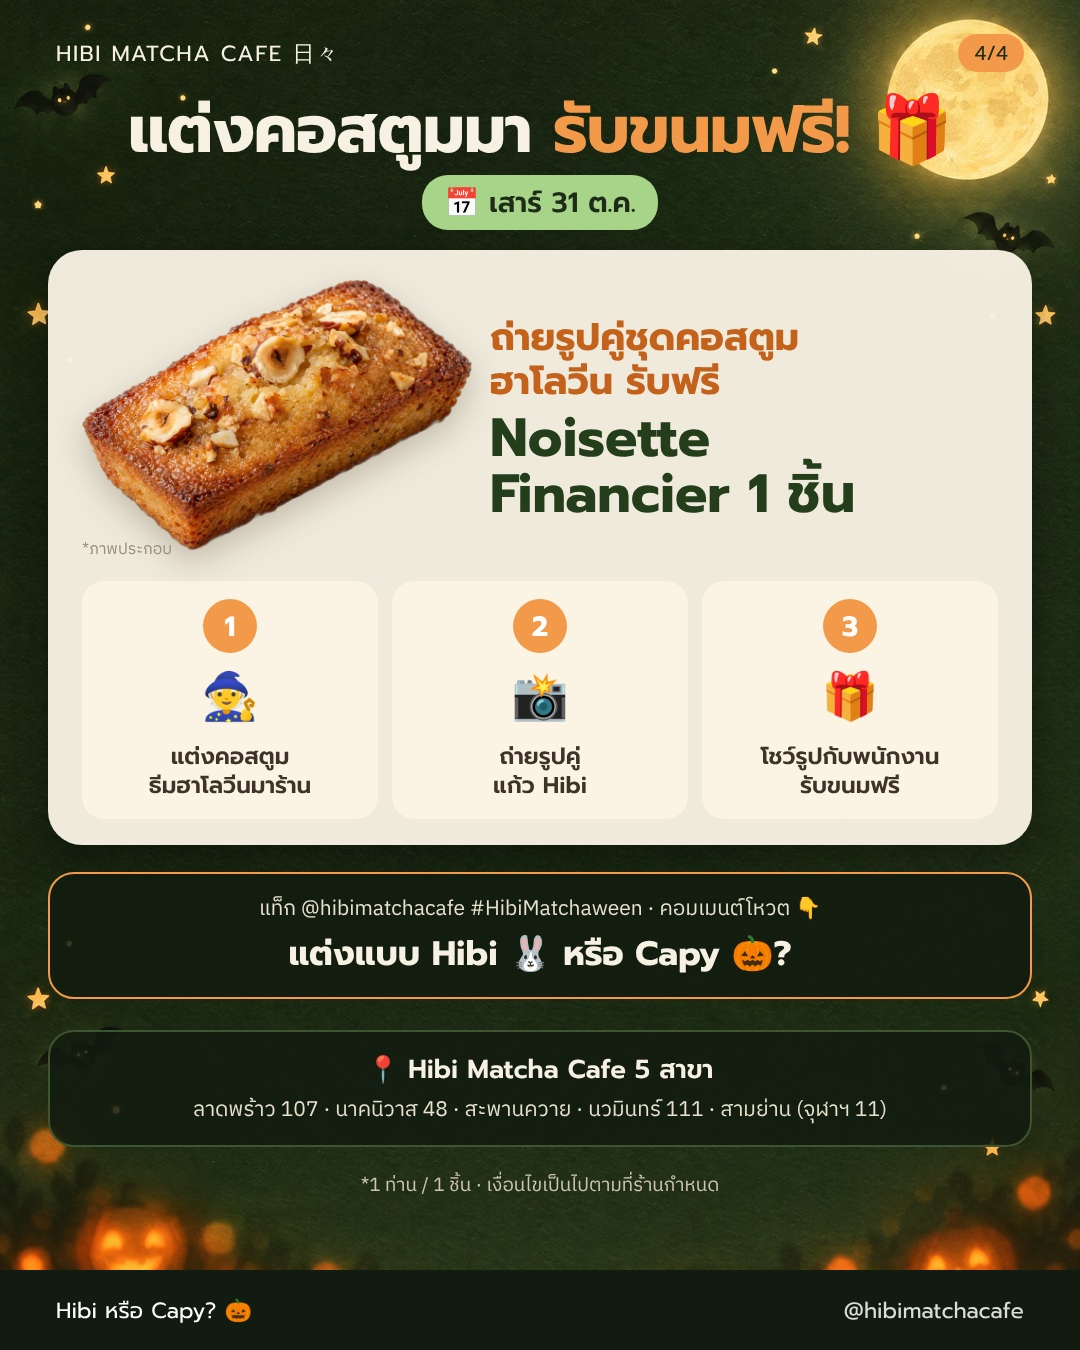
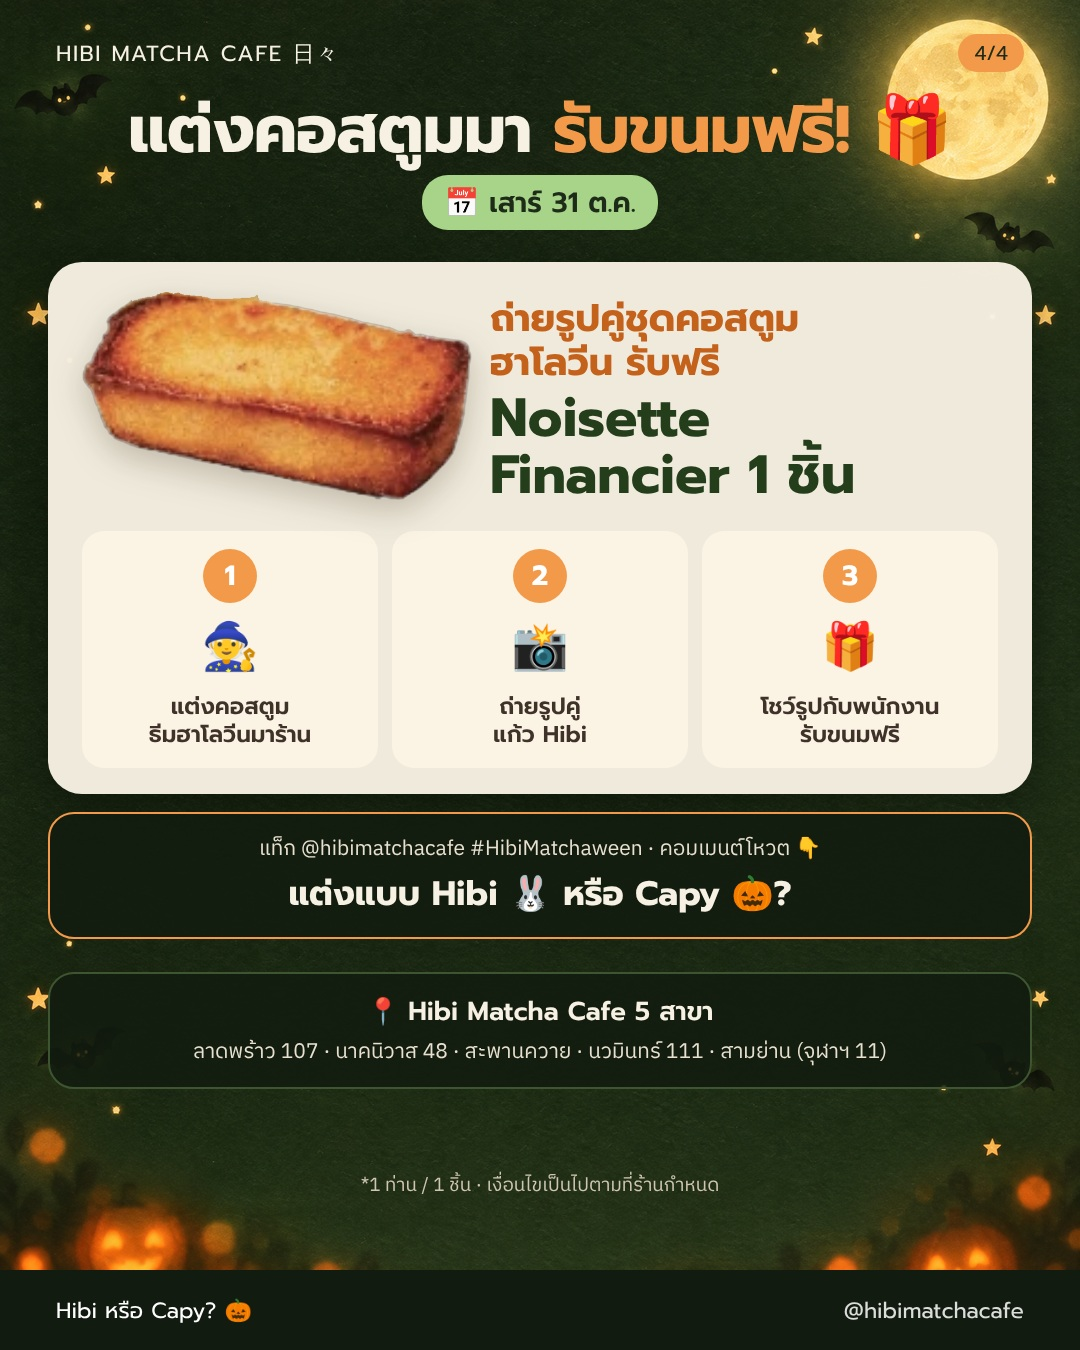
Halloween promo: use real Noisette Financier photo
Claude-Session: https://claude.ai/code/session_019v9CAxCxqD3EqyHWdLwpMA

diff --git a/docs/content-plan/campaigns/halloween-2026/build_slides.py b/docs/content-plan/campaigns/halloween-2026/build_slides.py
@@ -74,7 +74,7 @@ def s4():
     css = f""".w{{position:absolute;top:96px;left:0;right:0;text-align:center}}
 .t{{font-size:66px;color:{CREAM}}}.t em{{font-style:normal;color:{ORANGE}}}
 .dt{{display:inline-block;margin-top:10px;font-family:'Prompt';font-weight:600;font-size:28px;color:{NIGHT};background:{LEAF};padding:6px 22px;border-radius:26px}}
-.pc{{position:absolute;top:250px;left:48px;right:48px;background:rgba(247,241,227,.97);color:#2b2219;border-radius:34px;padding:30px 34px 26px;box-shadow:0 14px 34px rgba(0,0,0,.3)}}
+.pc{{position:absolute;top:262px;left:48px;right:48px;background:rgba(247,241,227,.97);color:#2b2219;border-radius:34px;padding:30px 34px 26px;box-shadow:0 14px 34px rgba(0,0,0,.3)}}
 .gr{{display:flex;align-items:center;gap:18px}}
 .fi{{width:390px;flex:none;position:relative;text-align:center}}
 .fi img{{width:390px;filter:drop-shadow(0 12px 16px rgba(60,40,20,.25))}}
@@ -85,13 +85,13 @@ def s4():
 .st .i{{flex:1;background:#fbf3e4;border-radius:22px;padding:18px 14px;text-align:center}}
 .st .n{{width:54px;height:54px;margin:0 auto;border-radius:50%;background:{ORANGE};color:#fff;font-family:'Prompt';font-weight:700;font-size:28px;display:flex;align-items:center;justify-content:center}}
 .st .e{{font-size:46px;margin-top:8px}}.st .x{{font-family:'Prompt';font-weight:600;font-size:23px;margin-top:6px;line-height:1.25;color:#3f3229}}
-.ask{{position:absolute;top:872px;left:48px;right:48px;background:rgba(18,27,15,.85);border:2px solid {ORANGE};border-radius:26px;padding:18px 24px;text-align:center}}
+.ask{{position:absolute;top:812px;left:48px;right:48px;background:rgba(18,27,15,.85);border:2px solid {ORANGE};border-radius:26px;padding:18px 24px;text-align:center}}
 .ask .k{{font-size:21px;color:#e8e1cf}}.ask .v{{font-family:'Prompt';font-weight:700;font-size:34px;color:{CREAM};margin-top:2px}}
-.br{{position:absolute;top:1030px;left:48px;right:48px;background:rgba(18,27,15,.85);border:2px solid #3d5530;border-radius:26px;padding:18px 24px;text-align:center}}
+.br{{position:absolute;top:972px;left:48px;right:48px;background:rgba(18,27,15,.85);border:2px solid #3d5530;border-radius:26px;padding:18px 24px;text-align:center}}
 .br .t2{{font-family:'Prompt';font-weight:600;font-size:26px}}.br .l{{font-size:21px;margin-top:6px;line-height:1.5;color:#e8e1cf}}
 .note{{position:absolute;top:1170px;left:0;right:0;text-align:center;font-size:19px;color:#cfc6b2}}"""
     body = f"""<div class="w"><div class="h1 t">แต่งคอสตูมมา <em>รับขนมฟรี!</em> 🎁</div><span class="dt">📅 เสาร์ 31 ต.ค.</span></div>
-<div class="pc"><div class="gr"><div class="fi"><img src="{A('financier', 700)}"><span>*ภาพประกอบ</span></div>
+<div class="pc"><div class="gr"><div class="fi"><img src="{A('financier', 700)}"></div>
 <div class="gift">ถ่ายรูปคู่ชุดคอสตูม<br>ฮาโลวีน รับฟรี<b>Noisette<br>Financier 1 ชิ้น</b></div></div>
 <div class="st"><div class="i"><div class="n">1</div><div class="e">🧙</div><div class="x">แต่งคอสตูม<br>ธีมฮาโลวีนมาร้าน</div></div>
 <div class="i"><div class="n">2</div><div class="e">📸</div><div class="x">ถ่ายรูปคู่<br>แก้ว Hibi</div></div>
